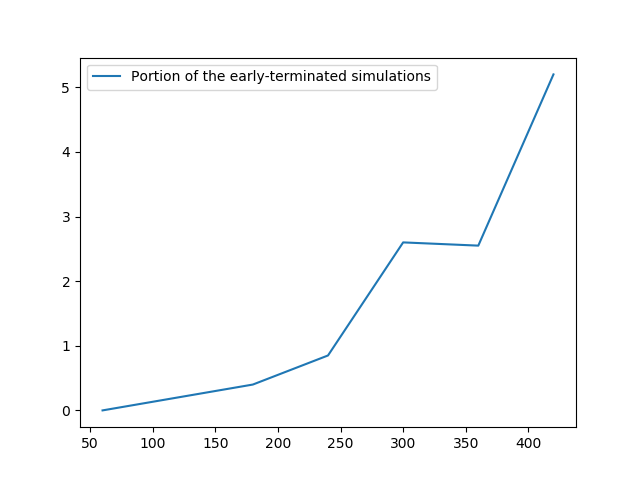
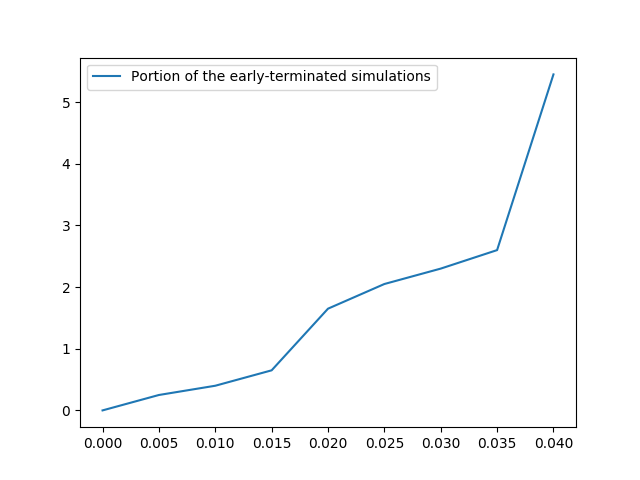
Adds figs for the last exp

diff --git a/utils/plot_for_paper.py b/utils/plot_for_paper.py
@@ -3,12 +3,11 @@
 import pylab
 import pandas as pd
 
-ROOT_DIR = "../batch_output/sfo-terminal-2-rt/"
+ROOT_DIR = "../batch_output/sfo-terminal-2-uc-success/"
 METRICS_CSV = ROOT_DIR + "metrics.csv"
 FAILED_CSV = ROOT_DIR + "logs.csv"
-INDEX = "simulation.reschedule_cycle"
-# INDEX = "uncertainty.prob_hold"
-TIMES = 30
+# INDEX = "simulation.reschedule_cycle"
+INDEX = "uncertainty.prob_hold"
 
 
 def main():
@@ -16,9 +15,9 @@ def main():
     data = pd.read_csv(METRICS_CSV).set_index(INDEX)
 
     # Plot delay
-    pylab.plot(data["avg_n_delay"], '-.', label="Total Delay")
-    pylab.plot(data["avg_n_scheduler_delay"], '--', label="Scheduler Delay")
-    pylab.plot(data["avg_n_uncertainty_delay"], ':',
+    pylab.plot(data["n_delay"], '-.', label="Total Delay")
+    pylab.plot(data["n_scheduler_delay"], '--', label="Scheduler Delay")
+    pylab.plot(data["n_uncertainty_delay"], ':',
                label="Uncertainty Delay")
     pylab.legend()
     pylab.savefig("delay.png")
